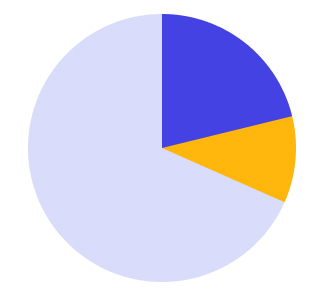
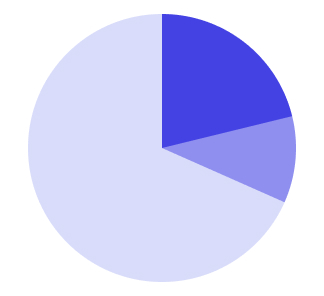
add horizontal images

Changed region(s): [[0.4938, 0.3953, 0.9259, 0.6993]]

diff --git a/apps/viz_types.py b/apps/viz_types.py
@@ -337,6 +337,26 @@ def _():
 
 
 @app.cell
+async def _(my_utils):
+    _img = await my_utils.gh_pages_load_image("horizontal.jpg")
+    mo.hstack([_img,mo.md("**Traditional**: TODO")],gap=2,align="center",widths=[.25,1])
+    return
+
+
+@app.cell
+async def _(my_utils):
+    _img = await my_utils.gh_pages_load_image("horizontal_small_multiples.jpg")
+    mo.hstack([_img,mo.md("**Small Multiples**: TODO")],gap=2,align="center",widths=[.25,1])
+    return
+
+
+@app.cell
+def _():
+    mo.Html("<hr>")
+    return
+
+
+@app.cell
 def _(my_utils):
     horizontal_bar_slider = mo.ui.slider(
         start=3,
